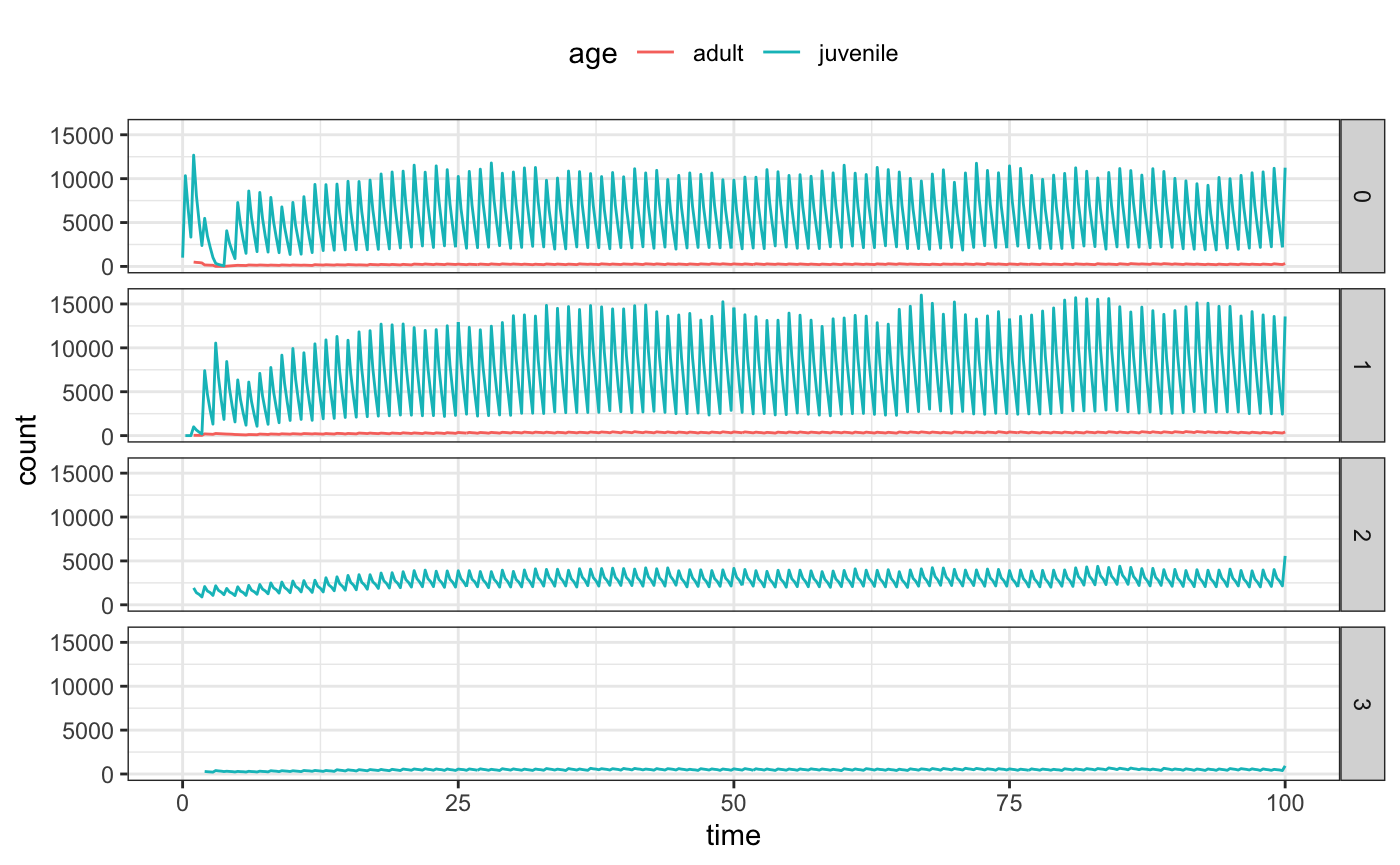
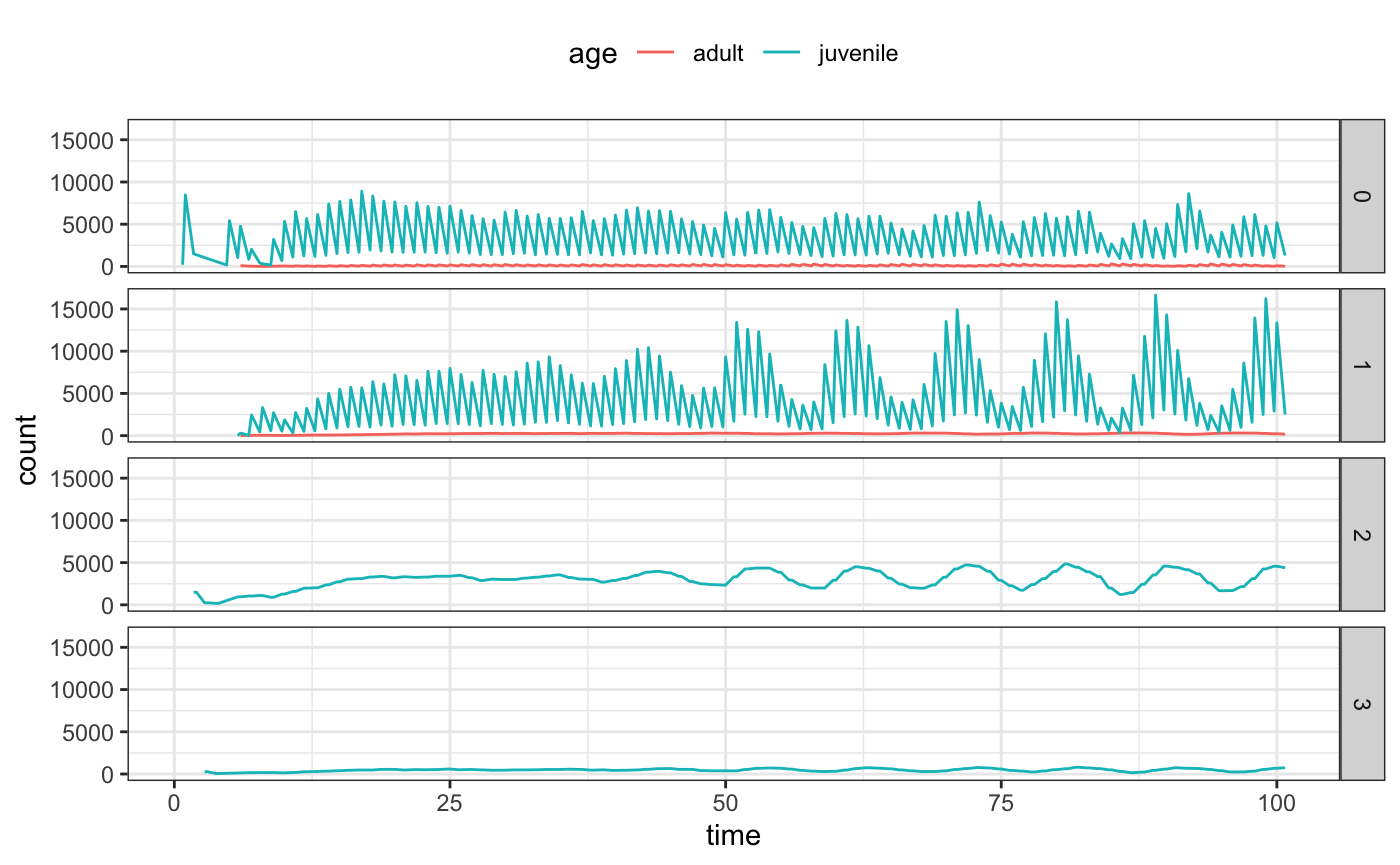
:bookmark: Bump version to v0.7.0 [ci skip]

diff --git a/docs/articles/kinship.html b/docs/articles/kinship.html
@@ -37,7 +37,7 @@
       </button>
       <span class="navbar-brand">
         <a class="navbar-link" href="../index.html">tekkamaki</a>
-        <span class="version label label-default" data-toggle="tooltip" data-placement="bottom" title="Released version">0.6.2</span>
+        <span class="version label label-default" data-toggle="tooltip" data-placement="bottom" title="Released version">0.7.0</span>
       </span>
     </div>
 
@@ -104,79 +104,94 @@
 <div class="sourceCode" id="cb1"><pre class="sourceCode r"><code class="sourceCode r"><span id="cb1-1"><a href="#cb1-1"></a><span class="kw"><a href="https://www.rdocumentation.org/packages/base/topics/library">library</a></span>(dplyr)</span>
 <span id="cb1-2"><a href="#cb1-2"></a><span class="kw"><a href="https://www.rdocumentation.org/packages/base/topics/library">library</a></span>(tekkamaki)</span>
 <span id="cb1-3"><a href="#cb1-3"></a></span>
-<span id="cb1-4"><a href="#cb1-4"></a>result =<span class="st"> </span><span class="kw"><a href="../reference/tekka.html">tekka</a></span>(<span class="st">'--seed=42 -y100 -l5 --sa 10,10 --sj 10,10'</span>) <span class="op">%&gt;%</span><span class="st"> </span><span class="kw"><a href="https://www.rdocumentation.org/packages/base/topics/print">print</a></span>()</span>
+<span id="cb1-4"><a href="#cb1-4"></a>result =<span class="st"> </span><span class="kw"><a href="../reference/tekka.html">tekka</a></span>(<span class="st">"--seed=42 -y100 -l3 --sa 10,10 --sj 10,10"</span>) <span class="op">%&gt;%</span><span class="st"> </span><span class="kw"><a href="https://www.rdocumentation.org/packages/base/topics/print">print</a></span>()</span>
 <span id="cb1-5"><a href="#cb1-5"></a><span class="co">#&gt; # A tibble: 1 x 2</span></span>
-<span id="cb1-6"><a href="#cb1-6"></a><span class="co">#&gt;   sample_family         demography          </span></span>
-<span id="cb1-7"><a href="#cb1-7"></a><span class="co">#&gt;   &lt;list&gt;                &lt;list&gt;              </span></span>
-<span id="cb1-8"><a href="#cb1-8"></a><span class="co">#&gt; 1 &lt;tibble [13,779 × 6]&gt; &lt;tibble [9,645 × 5]&gt;</span></span>
+<span id="cb1-6"><a href="#cb1-6"></a><span class="co">#&gt;   sample_family        demography          </span></span>
+<span id="cb1-7"><a href="#cb1-7"></a><span class="co">#&gt;   &lt;list&gt;               &lt;list&gt;              </span></span>
+<span id="cb1-8"><a href="#cb1-8"></a><span class="co">#&gt; 1 &lt;tibble [7,479 × 6]&gt; &lt;tibble [4,483 × 5]&gt;</span></span>
 <span id="cb1-9"><a href="#cb1-9"></a>sample_family =<span class="st"> </span>result<span class="op">$</span>sample_family[[1L]] <span class="op">%&gt;%</span><span class="st"> </span><span class="kw"><a href="https://www.rdocumentation.org/packages/base/topics/print">print</a></span>()</span>
-<span id="cb1-10"><a href="#cb1-10"></a><span class="co">#&gt; # A tibble: 13,779 x 6</span></span>
+<span id="cb1-10"><a href="#cb1-10"></a><span class="co">#&gt; # A tibble: 7,479 x 6</span></span>
 <span id="cb1-11"><a href="#cb1-11"></a><span class="co">#&gt;       id father_id mother_id birth_year location capture_year</span></span>
 <span id="cb1-12"><a href="#cb1-12"></a><span class="co">#&gt;    &lt;int&gt;     &lt;int&gt;     &lt;int&gt;      &lt;int&gt;    &lt;int&gt;        &lt;int&gt;</span></span>
-<span id="cb1-13"><a href="#cb1-13"></a><span class="co">#&gt;  1   213         0         0         -4        1           NA</span></span>
-<span id="cb1-14"><a href="#cb1-14"></a><span class="co">#&gt;  2   214         0         0         -4        1           NA</span></span>
-<span id="cb1-15"><a href="#cb1-15"></a><span class="co">#&gt;  3   212       213       214          5        0           NA</span></span>
-<span id="cb1-16"><a href="#cb1-16"></a><span class="co">#&gt;  4   217         0         0         -4        1           NA</span></span>
-<span id="cb1-17"><a href="#cb1-17"></a><span class="co">#&gt;  5   218         0         0         -4        0           NA</span></span>
-<span id="cb1-18"><a href="#cb1-18"></a><span class="co">#&gt;  6   216       217       218          0        1           NA</span></span>
-<span id="cb1-19"><a href="#cb1-19"></a><span class="co">#&gt;  7   219         0         0         -4        1           NA</span></span>
-<span id="cb1-20"><a href="#cb1-20"></a><span class="co">#&gt;  8   215       216       219          6        0           NA</span></span>
-<span id="cb1-21"><a href="#cb1-21"></a><span class="co">#&gt;  9   211       212       215         11        1           NA</span></span>
-<span id="cb1-22"><a href="#cb1-22"></a><span class="co">#&gt; 10   222         0         0         -4        1           NA</span></span>
-<span id="cb1-23"><a href="#cb1-23"></a><span class="co">#&gt; # … with 13,769 more rows</span></span></code></pre></div>
+<span id="cb1-13"><a href="#cb1-13"></a><span class="co">#&gt;  1   134         0         0         -4        0           NA</span></span>
+<span id="cb1-14"><a href="#cb1-14"></a><span class="co">#&gt;  2   135         0         0         -4        0           NA</span></span>
+<span id="cb1-15"><a href="#cb1-15"></a><span class="co">#&gt;  3   133       134       135          1        0           NA</span></span>
+<span id="cb1-16"><a href="#cb1-16"></a><span class="co">#&gt;  4   137         0         0         -4        0           NA</span></span>
+<span id="cb1-17"><a href="#cb1-17"></a><span class="co">#&gt;  5   138         0         0         -4        0           NA</span></span>
+<span id="cb1-18"><a href="#cb1-18"></a><span class="co">#&gt;  6   136       137       138          1        1           NA</span></span>
+<span id="cb1-19"><a href="#cb1-19"></a><span class="co">#&gt;  7   132       133       136          5        1           NA</span></span>
+<span id="cb1-20"><a href="#cb1-20"></a><span class="co">#&gt;  8   141         0         0         -4        0           NA</span></span>
+<span id="cb1-21"><a href="#cb1-21"></a><span class="co">#&gt;  9   142         0         0         -4        0           NA</span></span>
+<span id="cb1-22"><a href="#cb1-22"></a><span class="co">#&gt; 10   140       141       142          1        0           NA</span></span>
+<span id="cb1-23"><a href="#cb1-23"></a><span class="co">#&gt; # … with 7,469 more rows</span></span></code></pre></div>
 <p>Extract kinship with degree≤4:</p>
 <div class="sourceCode" id="cb2"><pre class="sourceCode r"><code class="sourceCode r"><span id="cb2-1"><a href="#cb2-1"></a>kinship =<span class="st"> </span><span class="kw"><a href="../reference/kinship.html">find_kinship</a></span>(sample_family, 4L) <span class="op">%&gt;%</span><span class="st"> </span><span class="kw"><a href="https://www.rdocumentation.org/packages/base/topics/print">print</a></span>()</span>
-<span id="cb2-2"><a href="#cb2-2"></a><span class="co">#&gt; # A tibble: 255 x 5</span></span>
+<span id="cb2-2"><a href="#cb2-2"></a><span class="co">#&gt; # A tibble: 194 x 5</span></span>
 <span id="cb2-3"><a href="#cb2-3"></a><span class="co">#&gt;     from    to path   degree label</span></span>
 <span id="cb2-4"><a href="#cb2-4"></a><span class="co">#&gt;    &lt;int&gt; &lt;int&gt; &lt;chr&gt;   &lt;int&gt; &lt;fct&gt;</span></span>
-<span id="cb2-5"><a href="#cb2-5"></a><span class="co">#&gt;  1     1    40 1110_1      4 HGUN </span></span>
-<span id="cb2-6"><a href="#cb2-6"></a><span class="co">#&gt;  2     1    62 1100_1      4 HC   </span></span>
-<span id="cb2-7"><a href="#cb2-7"></a><span class="co">#&gt;  3     2    10 1100_1      4 HC   </span></span>
-<span id="cb2-8"><a href="#cb2-8"></a><span class="co">#&gt;  4     2    71 110_1       3 HUN  </span></span>
-<span id="cb2-9"><a href="#cb2-9"></a><span class="co">#&gt;  5     2   130 100_1       3 HUN  </span></span>
-<span id="cb2-10"><a href="#cb2-10"></a><span class="co">#&gt;  6     3    73 10_1        2 HS   </span></span>
-<span id="cb2-11"><a href="#cb2-11"></a><span class="co">#&gt;  7     3   126 100_1       3 HUN  </span></span>
-<span id="cb2-12"><a href="#cb2-12"></a><span class="co">#&gt;  8     4    16 1100_1      4 HC   </span></span>
-<span id="cb2-13"><a href="#cb2-13"></a><span class="co">#&gt;  9     4    31 110_1       3 HUN  </span></span>
-<span id="cb2-14"><a href="#cb2-14"></a><span class="co">#&gt; 10     4    58 110_1       3 HUN  </span></span>
-<span id="cb2-15"><a href="#cb2-15"></a><span class="co">#&gt; # … with 245 more rows</span></span></code></pre></div>
+<span id="cb2-5"><a href="#cb2-5"></a><span class="co">#&gt;  1     1    26 10_1        2 HS   </span></span>
+<span id="cb2-6"><a href="#cb2-6"></a><span class="co">#&gt;  2     1    52 100_1       3 HUN  </span></span>
+<span id="cb2-7"><a href="#cb2-7"></a><span class="co">#&gt;  3     1    75 1000_1      4 HGUN </span></span>
+<span id="cb2-8"><a href="#cb2-8"></a><span class="co">#&gt;  4     1    82 100_1       3 HUN  </span></span>
+<span id="cb2-9"><a href="#cb2-9"></a><span class="co">#&gt;  5     1    87 10_1        2 HS   </span></span>
+<span id="cb2-10"><a href="#cb2-10"></a><span class="co">#&gt;  6     1   102 100_1       3 HUN  </span></span>
+<span id="cb2-11"><a href="#cb2-11"></a><span class="co">#&gt;  7     1   115 10_1        2 HS   </span></span>
+<span id="cb2-12"><a href="#cb2-12"></a><span class="co">#&gt;  8     2    65 1110_1      4 HGUN </span></span>
+<span id="cb2-13"><a href="#cb2-13"></a><span class="co">#&gt;  9     2   103 1110_1      4 HGUN </span></span>
+<span id="cb2-14"><a href="#cb2-14"></a><span class="co">#&gt; 10     3     5 1100_1      4 HC   </span></span>
+<span id="cb2-15"><a href="#cb2-15"></a><span class="co">#&gt; # … with 184 more rows</span></span>
+<span id="cb2-16"><a href="#cb2-16"></a>kinship <span class="op">%&gt;%</span><span class="st"> </span>dplyr<span class="op">::</span><span class="kw"><a href="https://dplyr.tidyverse.org/reference/tally.html">count</a></span>(label, <span class="dt">.drop =</span> <span class="ot">FALSE</span>)</span>
+<span id="cb2-17"><a href="#cb2-17"></a><span class="co">#&gt; # A tibble: 11 x 2</span></span>
+<span id="cb2-18"><a href="#cb2-18"></a><span class="co">#&gt;    label     n</span></span>
+<span id="cb2-19"><a href="#cb2-19"></a><span class="co">#&gt;    &lt;fct&gt; &lt;int&gt;</span></span>
+<span id="cb2-20"><a href="#cb2-20"></a><span class="co">#&gt;  1 PO        6</span></span>
+<span id="cb2-21"><a href="#cb2-21"></a><span class="co">#&gt;  2 HS       23</span></span>
+<span id="cb2-22"><a href="#cb2-22"></a><span class="co">#&gt;  3 FS        0</span></span>
+<span id="cb2-23"><a href="#cb2-23"></a><span class="co">#&gt;  4 GG        3</span></span>
+<span id="cb2-24"><a href="#cb2-24"></a><span class="co">#&gt;  5 GGG       0</span></span>
+<span id="cb2-25"><a href="#cb2-25"></a><span class="co">#&gt;  6 HUN      58</span></span>
+<span id="cb2-26"><a href="#cb2-26"></a><span class="co">#&gt;  7 UN        0</span></span>
+<span id="cb2-27"><a href="#cb2-27"></a><span class="co">#&gt;  8 HC       75</span></span>
+<span id="cb2-28"><a href="#cb2-28"></a><span class="co">#&gt;  9 C         0</span></span>
+<span id="cb2-29"><a href="#cb2-29"></a><span class="co">#&gt; 10 HGUN     27</span></span>
+<span id="cb2-30"><a href="#cb2-30"></a><span class="co">#&gt; 11 GUN       2</span></span></code></pre></div>
 <p>Bind other information to kinship data.frame:</p>
 <div class="sourceCode" id="cb3"><pre class="sourceCode r"><code class="sourceCode r"><span id="cb3-1"><a href="#cb3-1"></a>sampled =<span class="st"> </span>sample_family <span class="op">%&gt;%</span></span>
 <span id="cb3-2"><a href="#cb3-2"></a><span class="st">  </span>dplyr<span class="op">::</span><span class="kw"><a href="https://dplyr.tidyverse.org/reference/filter.html">filter</a></span>(<span class="op">!</span><span class="kw"><a href="https://www.rdocumentation.org/packages/base/topics/NA">is.na</a></span>(capture_year)) <span class="op">%&gt;%</span></span>
 <span id="cb3-3"><a href="#cb3-3"></a><span class="st">  </span>dplyr<span class="op">::</span><span class="kw"><a href="https://dplyr.tidyverse.org/reference/mutate.html">transmute</a></span>(id, location, capture_year, <span class="dt">age =</span> capture_year <span class="op">-</span><span class="st"> </span>birth_year) <span class="op">%&gt;%</span></span>
 <span id="cb3-4"><a href="#cb3-4"></a><span class="st">  </span><span class="kw"><a href="https://www.rdocumentation.org/packages/base/topics/print">print</a></span>()</span>
-<span id="cb3-5"><a href="#cb3-5"></a><span class="co">#&gt; # A tibble: 200 x 4</span></span>
+<span id="cb3-5"><a href="#cb3-5"></a><span class="co">#&gt; # A tibble: 120 x 4</span></span>
 <span id="cb3-6"><a href="#cb3-6"></a><span class="co">#&gt;       id location capture_year   age</span></span>
 <span id="cb3-7"><a href="#cb3-7"></a><span class="co">#&gt;    &lt;int&gt;    &lt;int&gt;        &lt;int&gt; &lt;int&gt;</span></span>
-<span id="cb3-8"><a href="#cb3-8"></a><span class="co">#&gt;  1     1        0           95     0</span></span>
-<span id="cb3-9"><a href="#cb3-9"></a><span class="co">#&gt;  2     2        1           95     0</span></span>
-<span id="cb3-10"><a href="#cb3-10"></a><span class="co">#&gt;  3     3        1           95     0</span></span>
-<span id="cb3-11"><a href="#cb3-11"></a><span class="co">#&gt;  4     4        0           95     0</span></span>
-<span id="cb3-12"><a href="#cb3-12"></a><span class="co">#&gt;  5     5        0           95     0</span></span>
-<span id="cb3-13"><a href="#cb3-13"></a><span class="co">#&gt;  6     6        0           95     4</span></span>
-<span id="cb3-14"><a href="#cb3-14"></a><span class="co">#&gt;  7     7        1           95     0</span></span>
-<span id="cb3-15"><a href="#cb3-15"></a><span class="co">#&gt;  8     8        1           95     0</span></span>
-<span id="cb3-16"><a href="#cb3-16"></a><span class="co">#&gt;  9     9        0           95     0</span></span>
-<span id="cb3-17"><a href="#cb3-17"></a><span class="co">#&gt; 10    10        0           95     0</span></span>
-<span id="cb3-18"><a href="#cb3-18"></a><span class="co">#&gt; # … with 190 more rows</span></span>
+<span id="cb3-8"><a href="#cb3-8"></a><span class="co">#&gt;  1     1        1           98     0</span></span>
+<span id="cb3-9"><a href="#cb3-9"></a><span class="co">#&gt;  2     2        0           98     0</span></span>
+<span id="cb3-10"><a href="#cb3-10"></a><span class="co">#&gt;  3     3        0           98     0</span></span>
+<span id="cb3-11"><a href="#cb3-11"></a><span class="co">#&gt;  4     4        1           98     0</span></span>
+<span id="cb3-12"><a href="#cb3-12"></a><span class="co">#&gt;  5     5        1           98     0</span></span>
+<span id="cb3-13"><a href="#cb3-13"></a><span class="co">#&gt;  6     6        0           98     0</span></span>
+<span id="cb3-14"><a href="#cb3-14"></a><span class="co">#&gt;  7     7        1           98     0</span></span>
+<span id="cb3-15"><a href="#cb3-15"></a><span class="co">#&gt;  8     8        0           98     0</span></span>
+<span id="cb3-16"><a href="#cb3-16"></a><span class="co">#&gt;  9     9        0           98     0</span></span>
+<span id="cb3-17"><a href="#cb3-17"></a><span class="co">#&gt; 10    10        1           98     0</span></span>
+<span id="cb3-18"><a href="#cb3-18"></a><span class="co">#&gt; # … with 110 more rows</span></span>
 <span id="cb3-19"><a href="#cb3-19"></a></span>
 <span id="cb3-20"><a href="#cb3-20"></a>kinship <span class="op">%&gt;%</span></span>
 <span id="cb3-21"><a href="#cb3-21"></a><span class="st">  </span>dplyr<span class="op">::</span><span class="kw"><a href="https://dplyr.tidyverse.org/reference/join.html">left_join</a></span>(sampled, <span class="dt">by =</span> <span class="kw"><a href="https://www.rdocumentation.org/packages/base/topics/c">c</a></span>(<span class="dt">from =</span> <span class="st">"id"</span>)) <span class="op">%&gt;%</span></span>
 <span id="cb3-22"><a href="#cb3-22"></a><span class="st">  </span>dplyr<span class="op">::</span><span class="kw"><a href="https://dplyr.tidyverse.org/reference/join.html">left_join</a></span>(sampled, <span class="dt">by =</span> <span class="kw"><a href="https://www.rdocumentation.org/packages/base/topics/c">c</a></span>(<span class="dt">to =</span> <span class="st">"id"</span>), <span class="dt">suffix =</span> <span class="kw"><a href="https://www.rdocumentation.org/packages/base/topics/c">c</a></span>(<span class="st">"_from"</span>, <span class="st">"_to"</span>))</span>
-<span id="cb3-23"><a href="#cb3-23"></a><span class="co">#&gt; # A tibble: 255 x 11</span></span>
+<span id="cb3-23"><a href="#cb3-23"></a><span class="co">#&gt; # A tibble: 194 x 11</span></span>
 <span id="cb3-24"><a href="#cb3-24"></a><span class="co">#&gt;     from    to path  degree label location_from capture_year_fr… age_from</span></span>
 <span id="cb3-25"><a href="#cb3-25"></a><span class="co">#&gt;    &lt;int&gt; &lt;int&gt; &lt;chr&gt;  &lt;int&gt; &lt;fct&gt;         &lt;int&gt;            &lt;int&gt;    &lt;int&gt;</span></span>
-<span id="cb3-26"><a href="#cb3-26"></a><span class="co">#&gt;  1     1    40 1110…      4 HGUN              0               95        0</span></span>
-<span id="cb3-27"><a href="#cb3-27"></a><span class="co">#&gt;  2     1    62 1100…      4 HC                0               95        0</span></span>
-<span id="cb3-28"><a href="#cb3-28"></a><span class="co">#&gt;  3     2    10 1100…      4 HC                1               95        0</span></span>
-<span id="cb3-29"><a href="#cb3-29"></a><span class="co">#&gt;  4     2    71 110_1      3 HUN               1               95        0</span></span>
-<span id="cb3-30"><a href="#cb3-30"></a><span class="co">#&gt;  5     2   130 100_1      3 HUN               1               95        0</span></span>
-<span id="cb3-31"><a href="#cb3-31"></a><span class="co">#&gt;  6     3    73 10_1       2 HS                1               95        0</span></span>
-<span id="cb3-32"><a href="#cb3-32"></a><span class="co">#&gt;  7     3   126 100_1      3 HUN               1               95        0</span></span>
-<span id="cb3-33"><a href="#cb3-33"></a><span class="co">#&gt;  8     4    16 1100…      4 HC                0               95        0</span></span>
-<span id="cb3-34"><a href="#cb3-34"></a><span class="co">#&gt;  9     4    31 110_1      3 HUN               0               95        0</span></span>
-<span id="cb3-35"><a href="#cb3-35"></a><span class="co">#&gt; 10     4    58 110_1      3 HUN               0               95        0</span></span>
-<span id="cb3-36"><a href="#cb3-36"></a><span class="co">#&gt; # … with 245 more rows, and 3 more variables: location_to &lt;int&gt;,</span></span>
+<span id="cb3-26"><a href="#cb3-26"></a><span class="co">#&gt;  1     1    26 10_1       2 HS                1               98        0</span></span>
+<span id="cb3-27"><a href="#cb3-27"></a><span class="co">#&gt;  2     1    52 100_1      3 HUN               1               98        0</span></span>
+<span id="cb3-28"><a href="#cb3-28"></a><span class="co">#&gt;  3     1    75 1000…      4 HGUN              1               98        0</span></span>
+<span id="cb3-29"><a href="#cb3-29"></a><span class="co">#&gt;  4     1    82 100_1      3 HUN               1               98        0</span></span>
+<span id="cb3-30"><a href="#cb3-30"></a><span class="co">#&gt;  5     1    87 10_1       2 HS                1               98        0</span></span>
+<span id="cb3-31"><a href="#cb3-31"></a><span class="co">#&gt;  6     1   102 100_1      3 HUN               1               98        0</span></span>
+<span id="cb3-32"><a href="#cb3-32"></a><span class="co">#&gt;  7     1   115 10_1       2 HS                1               98        0</span></span>
+<span id="cb3-33"><a href="#cb3-33"></a><span class="co">#&gt;  8     2    65 1110…      4 HGUN              0               98        0</span></span>
+<span id="cb3-34"><a href="#cb3-34"></a><span class="co">#&gt;  9     2   103 1110…      4 HGUN              0               98        0</span></span>
+<span id="cb3-35"><a href="#cb3-35"></a><span class="co">#&gt; 10     3     5 1100…      4 HC                0               98        0</span></span>
+<span id="cb3-36"><a href="#cb3-36"></a><span class="co">#&gt; # … with 184 more rows, and 3 more variables: location_to &lt;int&gt;,</span></span>
 <span id="cb3-37"><a href="#cb3-37"></a><span class="co">#&gt; #   capture_year_to &lt;int&gt;, age_to &lt;int&gt;</span></span></code></pre></div>
   </div>
 

diff --git a/docs/articles/tekkamaki.html b/docs/articles/tekkamaki.html
@@ -37,7 +37,7 @@
       </button>
       <span class="navbar-brand">
         <a class="navbar-link" href="../index.html">tekkamaki</a>
-        <span class="version label label-default" data-toggle="tooltip" data-placement="bottom" title="Released version">0.6.2</span>
+        <span class="version label label-default" data-toggle="tooltip" data-placement="bottom" title="Released version">0.7.0</span>
       </span>
     </div>
 
@@ -105,42 +105,42 @@
 <span id="cb1-2"><a href="#cb1-2"></a><span class="kw"><a href="https://www.rdocumentation.org/packages/base/topics/library">library</a></span>(ggplot2)</span>
 <span id="cb1-3"><a href="#cb1-3"></a><span class="kw"><a href="https://www.rdocumentation.org/packages/base/topics/library">library</a></span>(tekkamaki)</span>
 <span id="cb1-4"><a href="#cb1-4"></a></span>
-<span id="cb1-5"><a href="#cb1-5"></a>result =<span class="st"> </span><span class="kw"><a href="../reference/tekka.html">tekka</a></span>(<span class="st">'--seed=42 -y100 -l5'</span>) <span class="op">%&gt;%</span><span class="st"> </span><span class="kw"><a href="https://www.rdocumentation.org/packages/base/topics/print">print</a></span>()</span>
+<span id="cb1-5"><a href="#cb1-5"></a>result =<span class="st"> </span><span class="kw"><a href="../reference/tekka.html">tekka</a></span>(<span class="st">"--seed=42 -y100 -l3"</span>) <span class="op">%&gt;%</span><span class="st"> </span><span class="kw"><a href="https://www.rdocumentation.org/packages/base/topics/print">print</a></span>()</span>
 <span id="cb1-6"><a href="#cb1-6"></a><span class="co">#&gt; # A tibble: 1 x 2</span></span>
-<span id="cb1-7"><a href="#cb1-7"></a><span class="co">#&gt;   sample_family         demography          </span></span>
-<span id="cb1-8"><a href="#cb1-8"></a><span class="co">#&gt;   &lt;list&gt;                &lt;list&gt;              </span></span>
-<span id="cb1-9"><a href="#cb1-9"></a><span class="co">#&gt; 1 &lt;tibble [13,779 × 6]&gt; &lt;tibble [9,645 × 5]&gt;</span></span></code></pre></div>
+<span id="cb1-7"><a href="#cb1-7"></a><span class="co">#&gt;   sample_family        demography          </span></span>
+<span id="cb1-8"><a href="#cb1-8"></a><span class="co">#&gt;   &lt;list&gt;               &lt;list&gt;              </span></span>
+<span id="cb1-9"><a href="#cb1-9"></a><span class="co">#&gt; 1 &lt;tibble [7,479 × 6]&gt; &lt;tibble [4,483 × 5]&gt;</span></span></code></pre></div>
 <p>A result is a nested tibble with two columns: <code>sample_family</code> and <code>demography</code>:</p>
 <div class="sourceCode" id="cb2"><pre class="sourceCode r"><code class="sourceCode r"><span id="cb2-1"><a href="#cb2-1"></a>sample_family =<span class="st"> </span>result<span class="op">$</span>sample_family[[1L]] <span class="op">%&gt;%</span><span class="st"> </span><span class="kw"><a href="https://www.rdocumentation.org/packages/base/topics/print">print</a></span>()</span>
-<span id="cb2-2"><a href="#cb2-2"></a><span class="co">#&gt; # A tibble: 13,779 x 6</span></span>
+<span id="cb2-2"><a href="#cb2-2"></a><span class="co">#&gt; # A tibble: 7,479 x 6</span></span>
 <span id="cb2-3"><a href="#cb2-3"></a><span class="co">#&gt;       id father_id mother_id birth_year location capture_year</span></span>
 <span id="cb2-4"><a href="#cb2-4"></a><span class="co">#&gt;    &lt;int&gt;     &lt;int&gt;     &lt;int&gt;      &lt;int&gt;    &lt;int&gt;        &lt;int&gt;</span></span>
-<span id="cb2-5"><a href="#cb2-5"></a><span class="co">#&gt;  1   213         0         0         -4        1           NA</span></span>
-<span id="cb2-6"><a href="#cb2-6"></a><span class="co">#&gt;  2   214         0         0         -4        1           NA</span></span>
-<span id="cb2-7"><a href="#cb2-7"></a><span class="co">#&gt;  3   212       213       214          5        0           NA</span></span>
-<span id="cb2-8"><a href="#cb2-8"></a><span class="co">#&gt;  4   217         0         0         -4        1           NA</span></span>
-<span id="cb2-9"><a href="#cb2-9"></a><span class="co">#&gt;  5   218         0         0         -4        0           NA</span></span>
-<span id="cb2-10"><a href="#cb2-10"></a><span class="co">#&gt;  6   216       217       218          0        1           NA</span></span>
-<span id="cb2-11"><a href="#cb2-11"></a><span class="co">#&gt;  7   219         0         0         -4        1           NA</span></span>
-<span id="cb2-12"><a href="#cb2-12"></a><span class="co">#&gt;  8   215       216       219          6        0           NA</span></span>
-<span id="cb2-13"><a href="#cb2-13"></a><span class="co">#&gt;  9   211       212       215         11        1           NA</span></span>
-<span id="cb2-14"><a href="#cb2-14"></a><span class="co">#&gt; 10   222         0         0         -4        1           NA</span></span>
-<span id="cb2-15"><a href="#cb2-15"></a><span class="co">#&gt; # … with 13,769 more rows</span></span>
+<span id="cb2-5"><a href="#cb2-5"></a><span class="co">#&gt;  1   134         0         0         -4        0           NA</span></span>
+<span id="cb2-6"><a href="#cb2-6"></a><span class="co">#&gt;  2   135         0         0         -4        0           NA</span></span>
+<span id="cb2-7"><a href="#cb2-7"></a><span class="co">#&gt;  3   133       134       135          1        0           NA</span></span>
+<span id="cb2-8"><a href="#cb2-8"></a><span class="co">#&gt;  4   137         0         0         -4        0           NA</span></span>
+<span id="cb2-9"><a href="#cb2-9"></a><span class="co">#&gt;  5   138         0         0         -4        0           NA</span></span>
+<span id="cb2-10"><a href="#cb2-10"></a><span class="co">#&gt;  6   136       137       138          1        1           NA</span></span>
+<span id="cb2-11"><a href="#cb2-11"></a><span class="co">#&gt;  7   132       133       136          5        1           NA</span></span>
+<span id="cb2-12"><a href="#cb2-12"></a><span class="co">#&gt;  8   141         0         0         -4        0           NA</span></span>
+<span id="cb2-13"><a href="#cb2-13"></a><span class="co">#&gt;  9   142         0         0         -4        0           NA</span></span>
+<span id="cb2-14"><a href="#cb2-14"></a><span class="co">#&gt; 10   140       141       142          1        0           NA</span></span>
+<span id="cb2-15"><a href="#cb2-15"></a><span class="co">#&gt; # … with 7,469 more rows</span></span>
 <span id="cb2-16"><a href="#cb2-16"></a>demography =<span class="st"> </span>result<span class="op">$</span>demography[[1L]] <span class="op">%&gt;%</span><span class="st"> </span><span class="kw"><a href="https://www.rdocumentation.org/packages/base/topics/print">print</a></span>()</span>
-<span id="cb2-17"><a href="#cb2-17"></a><span class="co">#&gt; # A tibble: 9,645 x 5</span></span>
+<span id="cb2-17"><a href="#cb2-17"></a><span class="co">#&gt; # A tibble: 4,483 x 5</span></span>
 <span id="cb2-18"><a href="#cb2-18"></a><span class="co">#&gt;     year season location   age count</span></span>
 <span id="cb2-19"><a href="#cb2-19"></a><span class="co">#&gt;    &lt;dbl&gt;  &lt;dbl&gt;    &lt;dbl&gt; &lt;dbl&gt; &lt;dbl&gt;</span></span>
-<span id="cb2-20"><a href="#cb2-20"></a><span class="co">#&gt;  1     0      0        0     4  1000</span></span>
-<span id="cb2-21"><a href="#cb2-21"></a><span class="co">#&gt;  2     0      1        0     0  9598</span></span>
-<span id="cb2-22"><a href="#cb2-22"></a><span class="co">#&gt;  3     0      1        0     4   737</span></span>
-<span id="cb2-23"><a href="#cb2-23"></a><span class="co">#&gt;  4     0      1        1     0     0</span></span>
-<span id="cb2-24"><a href="#cb2-24"></a><span class="co">#&gt;  5     0      2        0     0  5859</span></span>
-<span id="cb2-25"><a href="#cb2-25"></a><span class="co">#&gt;  6     0      2        0     4   700</span></span>
-<span id="cb2-26"><a href="#cb2-26"></a><span class="co">#&gt;  7     0      2        1     0     0</span></span>
-<span id="cb2-27"><a href="#cb2-27"></a><span class="co">#&gt;  8     0      3        0     0  2716</span></span>
-<span id="cb2-28"><a href="#cb2-28"></a><span class="co">#&gt;  9     0      3        0     4   626</span></span>
-<span id="cb2-29"><a href="#cb2-29"></a><span class="co">#&gt; 10     0      3        1     0     0</span></span>
-<span id="cb2-30"><a href="#cb2-30"></a><span class="co">#&gt; # … with 9,635 more rows</span></span></code></pre></div>
+<span id="cb2-20"><a href="#cb2-20"></a><span class="co">#&gt;  1     0      3        0     4   200</span></span>
+<span id="cb2-21"><a href="#cb2-21"></a><span class="co">#&gt;  2     1      0        0     0  8466</span></span>
+<span id="cb2-22"><a href="#cb2-22"></a><span class="co">#&gt;  3     1      3        0     0  1491</span></span>
+<span id="cb2-23"><a href="#cb2-23"></a><span class="co">#&gt;  4     1      3        2     0  1491</span></span>
+<span id="cb2-24"><a href="#cb2-24"></a><span class="co">#&gt;  5     2      0        2     1  1491</span></span>
+<span id="cb2-25"><a href="#cb2-25"></a><span class="co">#&gt;  6     2      3        2     1   242</span></span>
+<span id="cb2-26"><a href="#cb2-26"></a><span class="co">#&gt;  7     2      3        3     1   275</span></span>
+<span id="cb2-27"><a href="#cb2-27"></a><span class="co">#&gt;  8     3      0        2     2   242</span></span>
+<span id="cb2-28"><a href="#cb2-28"></a><span class="co">#&gt;  9     3      0        3     2   275</span></span>
+<span id="cb2-29"><a href="#cb2-29"></a><span class="co">#&gt; 10     3      3        2     2   174</span></span>
+<span id="cb2-30"><a href="#cb2-30"></a><span class="co">#&gt; # … with 4,473 more rows</span></span></code></pre></div>
 <p>Here is an example of visualizing demography:</p>
 <div class="sourceCode" id="cb3"><pre class="sourceCode r"><code class="sourceCode r"><span id="cb3-1"><a href="#cb3-1"></a><span class="kw"><a href="https://www.rdocumentation.org/packages/base/topics/library">library</a></span>(ggplot2)</span>
 <span id="cb3-2"><a href="#cb3-2"></a>df =<span class="st"> </span>demography <span class="op">%&gt;%</span></span>
@@ -154,6 +154,19 @@
 <span id="cb3-10"><a href="#cb3-10"></a><span class="st">  </span><span class="kw"><a href="https://ggplot2.tidyverse.org/reference/ggtheme.html">theme_bw</a></span>() <span class="op">+</span></span>
 <span id="cb3-11"><a href="#cb3-11"></a><span class="st">  </span><span class="kw"><a href="https://ggplot2.tidyverse.org/reference/theme.html">theme</a></span>(<span class="dt">legend.position =</span> <span class="st">"top"</span>)</span></code></pre></div>
 <p><img src="tekkamaki_files/figure-html/demography-1.png" width="700"></p>
+<div class="sourceCode" id="cb4"><pre class="sourceCode r"><code class="sourceCode r"><span id="cb4-1"><a href="#cb4-1"></a><span class="kw">load_all</span>(<span class="dt">compile =</span> <span class="ot">TRUE</span>)</span>
+<span id="cb4-2"><a href="#cb4-2"></a>result =<span class="st"> </span><span class="kw"><a href="../reference/tekka.html">tekka</a></span>(<span class="st">"-y200"</span>) <span class="op">%&gt;%</span><span class="st"> </span><span class="kw"><a href="https://www.rdocumentation.org/packages/base/topics/print">print</a></span>()</span>
+<span id="cb4-3"><a href="#cb4-3"></a>demography =<span class="st"> </span>result<span class="op">$</span>demography[[1L]] <span class="op">%&gt;%</span><span class="st"> </span><span class="kw"><a href="https://www.rdocumentation.org/packages/base/topics/print">print</a></span>()</span>
+<span id="cb4-4"><a href="#cb4-4"></a>df =<span class="st"> </span>demography <span class="op">%&gt;%</span></span>
+<span id="cb4-5"><a href="#cb4-5"></a><span class="st">  </span>dplyr<span class="op">::</span><span class="kw"><a href="https://dplyr.tidyverse.org/reference/mutate.html">mutate</a></span>(<span class="dt">time =</span> year <span class="op">+</span><span class="st"> </span><span class="fl">0.25</span> <span class="op">*</span><span class="st"> </span>season) <span class="op">%&gt;%</span></span>
+<span id="cb4-6"><a href="#cb4-6"></a><span class="st">  </span>dplyr<span class="op">::</span><span class="kw"><a href="https://dplyr.tidyverse.org/reference/group_by.html">group_by</a></span>(time, location, <span class="dt">age =</span> <span class="kw"><a href="https://www.rdocumentation.org/packages/base/topics/ifelse">ifelse</a></span>(age <span class="op">&gt;=</span><span class="st"> </span><span class="dv">4</span>, <span class="st">"adult"</span>, <span class="st">"juvenile"</span>)) <span class="op">%&gt;%</span></span>
+<span id="cb4-7"><a href="#cb4-7"></a><span class="st">  </span>dplyr<span class="op">::</span><span class="kw"><a href="https://dplyr.tidyverse.org/reference/summarise.html">summarise</a></span>(<span class="dt">count =</span> <span class="kw"><a href="https://www.rdocumentation.org/packages/base/topics/sum">sum</a></span>(count))</span>
+<span id="cb4-8"><a href="#cb4-8"></a></span>
+<span id="cb4-9"><a href="#cb4-9"></a><span class="kw"><a href="https://ggplot2.tidyverse.org/reference/ggplot.html">ggplot</a></span>(df, <span class="kw"><a href="https://ggplot2.tidyverse.org/reference/aes.html">aes</a></span>(time, count)) <span class="op">+</span></span>
+<span id="cb4-10"><a href="#cb4-10"></a><span class="st">  </span><span class="kw"><a href="https://ggplot2.tidyverse.org/reference/geom_path.html">geom_path</a></span>(<span class="kw"><a href="https://ggplot2.tidyverse.org/reference/aes.html">aes</a></span>(<span class="dt">colour =</span> age, <span class="dt">group =</span> age)) <span class="op">+</span></span>
+<span id="cb4-11"><a href="#cb4-11"></a><span class="st">  </span><span class="kw"><a href="https://ggplot2.tidyverse.org/reference/facet_grid.html">facet_grid</a></span>(location <span class="op">~</span><span class="st"> </span>.) <span class="op">+</span></span>
+<span id="cb4-12"><a href="#cb4-12"></a><span class="st">  </span><span class="kw"><a href="https://ggplot2.tidyverse.org/reference/ggtheme.html">theme_bw</a></span>() <span class="op">+</span></span>
+<span id="cb4-13"><a href="#cb4-13"></a><span class="st">  </span><span class="kw"><a href="https://ggplot2.tidyverse.org/reference/theme.html">theme</a></span>(<span class="dt">legend.position =</span> <span class="st">"top"</span>)</span></code></pre></div>
   </div>
 
   <div class="col-md-3 hidden-xs hidden-sm" id="sidebar">

diff --git a/docs/articles/snp.html b/docs/articles/snp.html
@@ -37,7 +37,7 @@
       </button>
       <span class="navbar-brand">
         <a class="navbar-link" href="../index.html">tekkamaki</a>
-        <span class="version label label-default" data-toggle="tooltip" data-placement="bottom" title="Released version">0.6.2</span>
+        <span class="version label label-default" data-toggle="tooltip" data-placement="bottom" title="Released version">0.7.0</span>
       </span>
     </div>
 
@@ -106,18 +106,18 @@
 <div id="generate-a-snp-matrix" class="section level2">
 <h2 class="hasAnchor">
 <a href="#generate-a-snp-matrix" class="anchor"></a>Generate a SNP matrix</h2>
-<div class="sourceCode" id="cb2"><pre class="sourceCode r"><code class="sourceCode r"><span id="cb2-1"><a href="#cb2-1"></a>result =<span class="st"> </span><span class="kw"><a href="../reference/tekka.html">tekka</a></span>(<span class="st">"--seed 42 -y40 -K40 -r1 -l2 --sa 2,2 --sj 2,2"</span>)</span>
+<div class="sourceCode" id="cb2"><pre class="sourceCode r"><code class="sourceCode r"><span id="cb2-1"><a href="#cb2-1"></a>result =<span class="st"> </span><span class="kw"><a href="../reference/tekka.html">tekka</a></span>(<span class="st">"--seed 42 -y40 -K100 -r2 -l2 --sa 2,2 --sj 2,2"</span>)</span>
 <span id="cb2-2"><a href="#cb2-2"></a>samples =<span class="st"> </span>result<span class="op">$</span>sample_family[[1L]]</span>
 <span id="cb2-3"><a href="#cb2-3"></a><span class="kw"><a href="../reference/snp.html">make_snp</a></span>(samples, <span class="dt">ss =</span> <span class="kw"><a href="https://www.rdocumentation.org/packages/base/topics/c">c</a></span>(1L, 2L))</span>
 <span id="cb2-4"><a href="#cb2-4"></a><span class="co">#&gt;       [,1] [,2] [,3]</span></span>
-<span id="cb2-5"><a href="#cb2-5"></a><span class="co">#&gt;  [1,]    1    0    0</span></span>
+<span id="cb2-5"><a href="#cb2-5"></a><span class="co">#&gt;  [1,]    0    0    0</span></span>
 <span id="cb2-6"><a href="#cb2-6"></a><span class="co">#&gt;  [2,]    0    0    0</span></span>
 <span id="cb2-7"><a href="#cb2-7"></a><span class="co">#&gt;  [3,]    0    0    0</span></span>
 <span id="cb2-8"><a href="#cb2-8"></a><span class="co">#&gt;  [4,]    0    0    0</span></span>
-<span id="cb2-9"><a href="#cb2-9"></a><span class="co">#&gt;  [5,]    0    0    0</span></span>
+<span id="cb2-9"><a href="#cb2-9"></a><span class="co">#&gt;  [5,]    0    0    1</span></span>
 <span id="cb2-10"><a href="#cb2-10"></a><span class="co">#&gt;  [6,]    0    0    0</span></span>
 <span id="cb2-11"><a href="#cb2-11"></a><span class="co">#&gt;  [7,]    0    0    0</span></span>
-<span id="cb2-12"><a href="#cb2-12"></a><span class="co">#&gt;  [8,]    0    0    1</span></span>
+<span id="cb2-12"><a href="#cb2-12"></a><span class="co">#&gt;  [8,]    0    0    0</span></span>
 <span id="cb2-13"><a href="#cb2-13"></a><span class="co">#&gt;  [9,]    0    0    0</span></span>
 <span id="cb2-14"><a href="#cb2-14"></a><span class="co">#&gt; [10,]    0    0    0</span></span>
 <span id="cb2-15"><a href="#cb2-15"></a><span class="co">#&gt; [11,]    0    0    0</span></span>
@@ -126,14 +126,14 @@
 <span id="cb2-18"><a href="#cb2-18"></a><span class="co">#&gt; [14,]    0    0    0</span></span>
 <span id="cb2-19"><a href="#cb2-19"></a><span class="co">#&gt; [15,]    0    0    0</span></span>
 <span id="cb2-20"><a href="#cb2-20"></a><span class="co">#&gt; [16,]    0    0    0</span></span>
-<span id="cb2-21"><a href="#cb2-21"></a><span class="co">#&gt; [17,]    0    0    0</span></span>
+<span id="cb2-21"><a href="#cb2-21"></a><span class="co">#&gt; [17,]    0    1    0</span></span>
 <span id="cb2-22"><a href="#cb2-22"></a><span class="co">#&gt; [18,]    0    0    0</span></span>
 <span id="cb2-23"><a href="#cb2-23"></a><span class="co">#&gt; [19,]    0    0    0</span></span>
-<span id="cb2-24"><a href="#cb2-24"></a><span class="co">#&gt; [20,]    0    0    0</span></span>
+<span id="cb2-24"><a href="#cb2-24"></a><span class="co">#&gt; [20,]    1    0    0</span></span>
 <span id="cb2-25"><a href="#cb2-25"></a><span class="co">#&gt; [21,]    0    0    0</span></span>
 <span id="cb2-26"><a href="#cb2-26"></a><span class="co">#&gt; [22,]    0    0    0</span></span>
 <span id="cb2-27"><a href="#cb2-27"></a><span class="co">#&gt; [23,]    0    0    0</span></span>
-<span id="cb2-28"><a href="#cb2-28"></a><span class="co">#&gt; [24,]    0    1    0</span></span>
+<span id="cb2-28"><a href="#cb2-28"></a><span class="co">#&gt; [24,]    0    0    0</span></span>
 <span id="cb2-29"><a href="#cb2-29"></a><span class="co">#&gt; [25,]    0    0    0</span></span>
 <span id="cb2-30"><a href="#cb2-30"></a><span class="co">#&gt; [26,]    0    0    0</span></span>
 <span id="cb2-31"><a href="#cb2-31"></a><span class="co">#&gt; [27,]    0    0    0</span></span>

diff --git a/docs/reference/reexports.html b/docs/reference/reexports.html
@@ -78,7 +78,7 @@ below to see their documentation.
       </button>
       <span class="navbar-brand">
         <a class="navbar-link" href="../index.html">tekkamaki</a>
-        <span class="version label label-default" data-toggle="tooltip" data-placement="bottom" title="Released version">0.6.2</span>
+        <span class="version label label-default" data-toggle="tooltip" data-placement="bottom" title="Released version">0.7.0</span>
       </span>
     </div>
 

diff --git a/docs/articles/index.html b/docs/articles/index.html
@@ -70,7 +70,7 @@
       </button>
       <span class="navbar-brand">
         <a class="navbar-link" href="../index.html">tekkamaki</a>
-        <span class="version label label-default" data-toggle="tooltip" data-placement="bottom" title="Released version">0.6.2</span>
+        <span class="version label label-default" data-toggle="tooltip" data-placement="bottom" title="Released version">0.7.0</span>
       </span>
     </div>
 

diff --git a/docs/reference/graph.html b/docs/reference/graph.html
@@ -72,7 +72,7 @@
       </button>
       <span class="navbar-brand">
         <a class="navbar-link" href="../index.html">tekkamaki</a>
-        <span class="version label label-default" data-toggle="tooltip" data-placement="bottom" title="Released version">0.6.2</span>
+        <span class="version label label-default" data-toggle="tooltip" data-placement="bottom" title="Released version">0.7.0</span>
       </span>
     </div>
 

diff --git a/docs/reference/hsp.html b/docs/reference/hsp.html
@@ -72,7 +72,7 @@
       </button>
       <span class="navbar-brand">
         <a class="navbar-link" href="../index.html">tekkamaki</a>
-        <span class="version label label-default" data-toggle="tooltip" data-placement="bottom" title="Released version">0.6.2</span>
+        <span class="version label label-default" data-toggle="tooltip" data-placement="bottom" title="Released version">0.7.0</span>
       </span>
     </div>
 

diff --git a/docs/reference/index.html b/docs/reference/index.html
@@ -70,7 +70,7 @@
       </button>
       <span class="navbar-brand">
         <a class="navbar-link" href="../index.html">tekkamaki</a>
-        <span class="version label label-default" data-toggle="tooltip" data-placement="bottom" title="Released version">0.6.2</span>
+        <span class="version label label-default" data-toggle="tooltip" data-placement="bottom" title="Released version">0.7.0</span>
       </span>
     </div>
 

diff --git a/docs/reference/kinship.html b/docs/reference/kinship.html
@@ -72,7 +72,7 @@
       </button>
       <span class="navbar-brand">
         <a class="navbar-link" href="../index.html">tekkamaki</a>
-        <span class="version label label-default" data-toggle="tooltip" data-placement="bottom" title="Released version">0.6.2</span>
+        <span class="version label label-default" data-toggle="tooltip" data-placement="bottom" title="Released version">0.7.0</span>
       </span>
     </div>
 

diff --git a/docs/reference/nbinom.html b/docs/reference/nbinom.html
@@ -72,7 +72,7 @@
       </button>
       <span class="navbar-brand">
         <a class="navbar-link" href="../index.html">tekkamaki</a>
-        <span class="version label label-default" data-toggle="tooltip" data-placement="bottom" title="Released version">0.6.2</span>
+        <span class="version label label-default" data-toggle="tooltip" data-placement="bottom" title="Released version">0.7.0</span>
       </span>
     </div>
 

diff --git a/docs/reference/parameter.html b/docs/reference/parameter.html
@@ -72,7 +72,7 @@
       </button>
       <span class="navbar-brand">
         <a class="navbar-link" href="../index.html">tekkamaki</a>
-        <span class="version label label-default" data-toggle="tooltip" data-placement="bottom" title="Released version">0.6.2</span>
+        <span class="version label label-default" data-toggle="tooltip" data-placement="bottom" title="Released version">0.7.0</span>
       </span>
     </div>
 

diff --git a/docs/reference/plot.html b/docs/reference/plot.html
@@ -72,7 +72,7 @@
       </button>
       <span class="navbar-brand">
         <a class="navbar-link" href="../index.html">tekkamaki</a>
-        <span class="version label label-default" data-toggle="tooltip" data-placement="bottom" title="Released version">0.6.2</span>
+        <span class="version label label-default" data-toggle="tooltip" data-placement="bottom" title="Released version">0.7.0</span>
       </span>
     </div>
 
